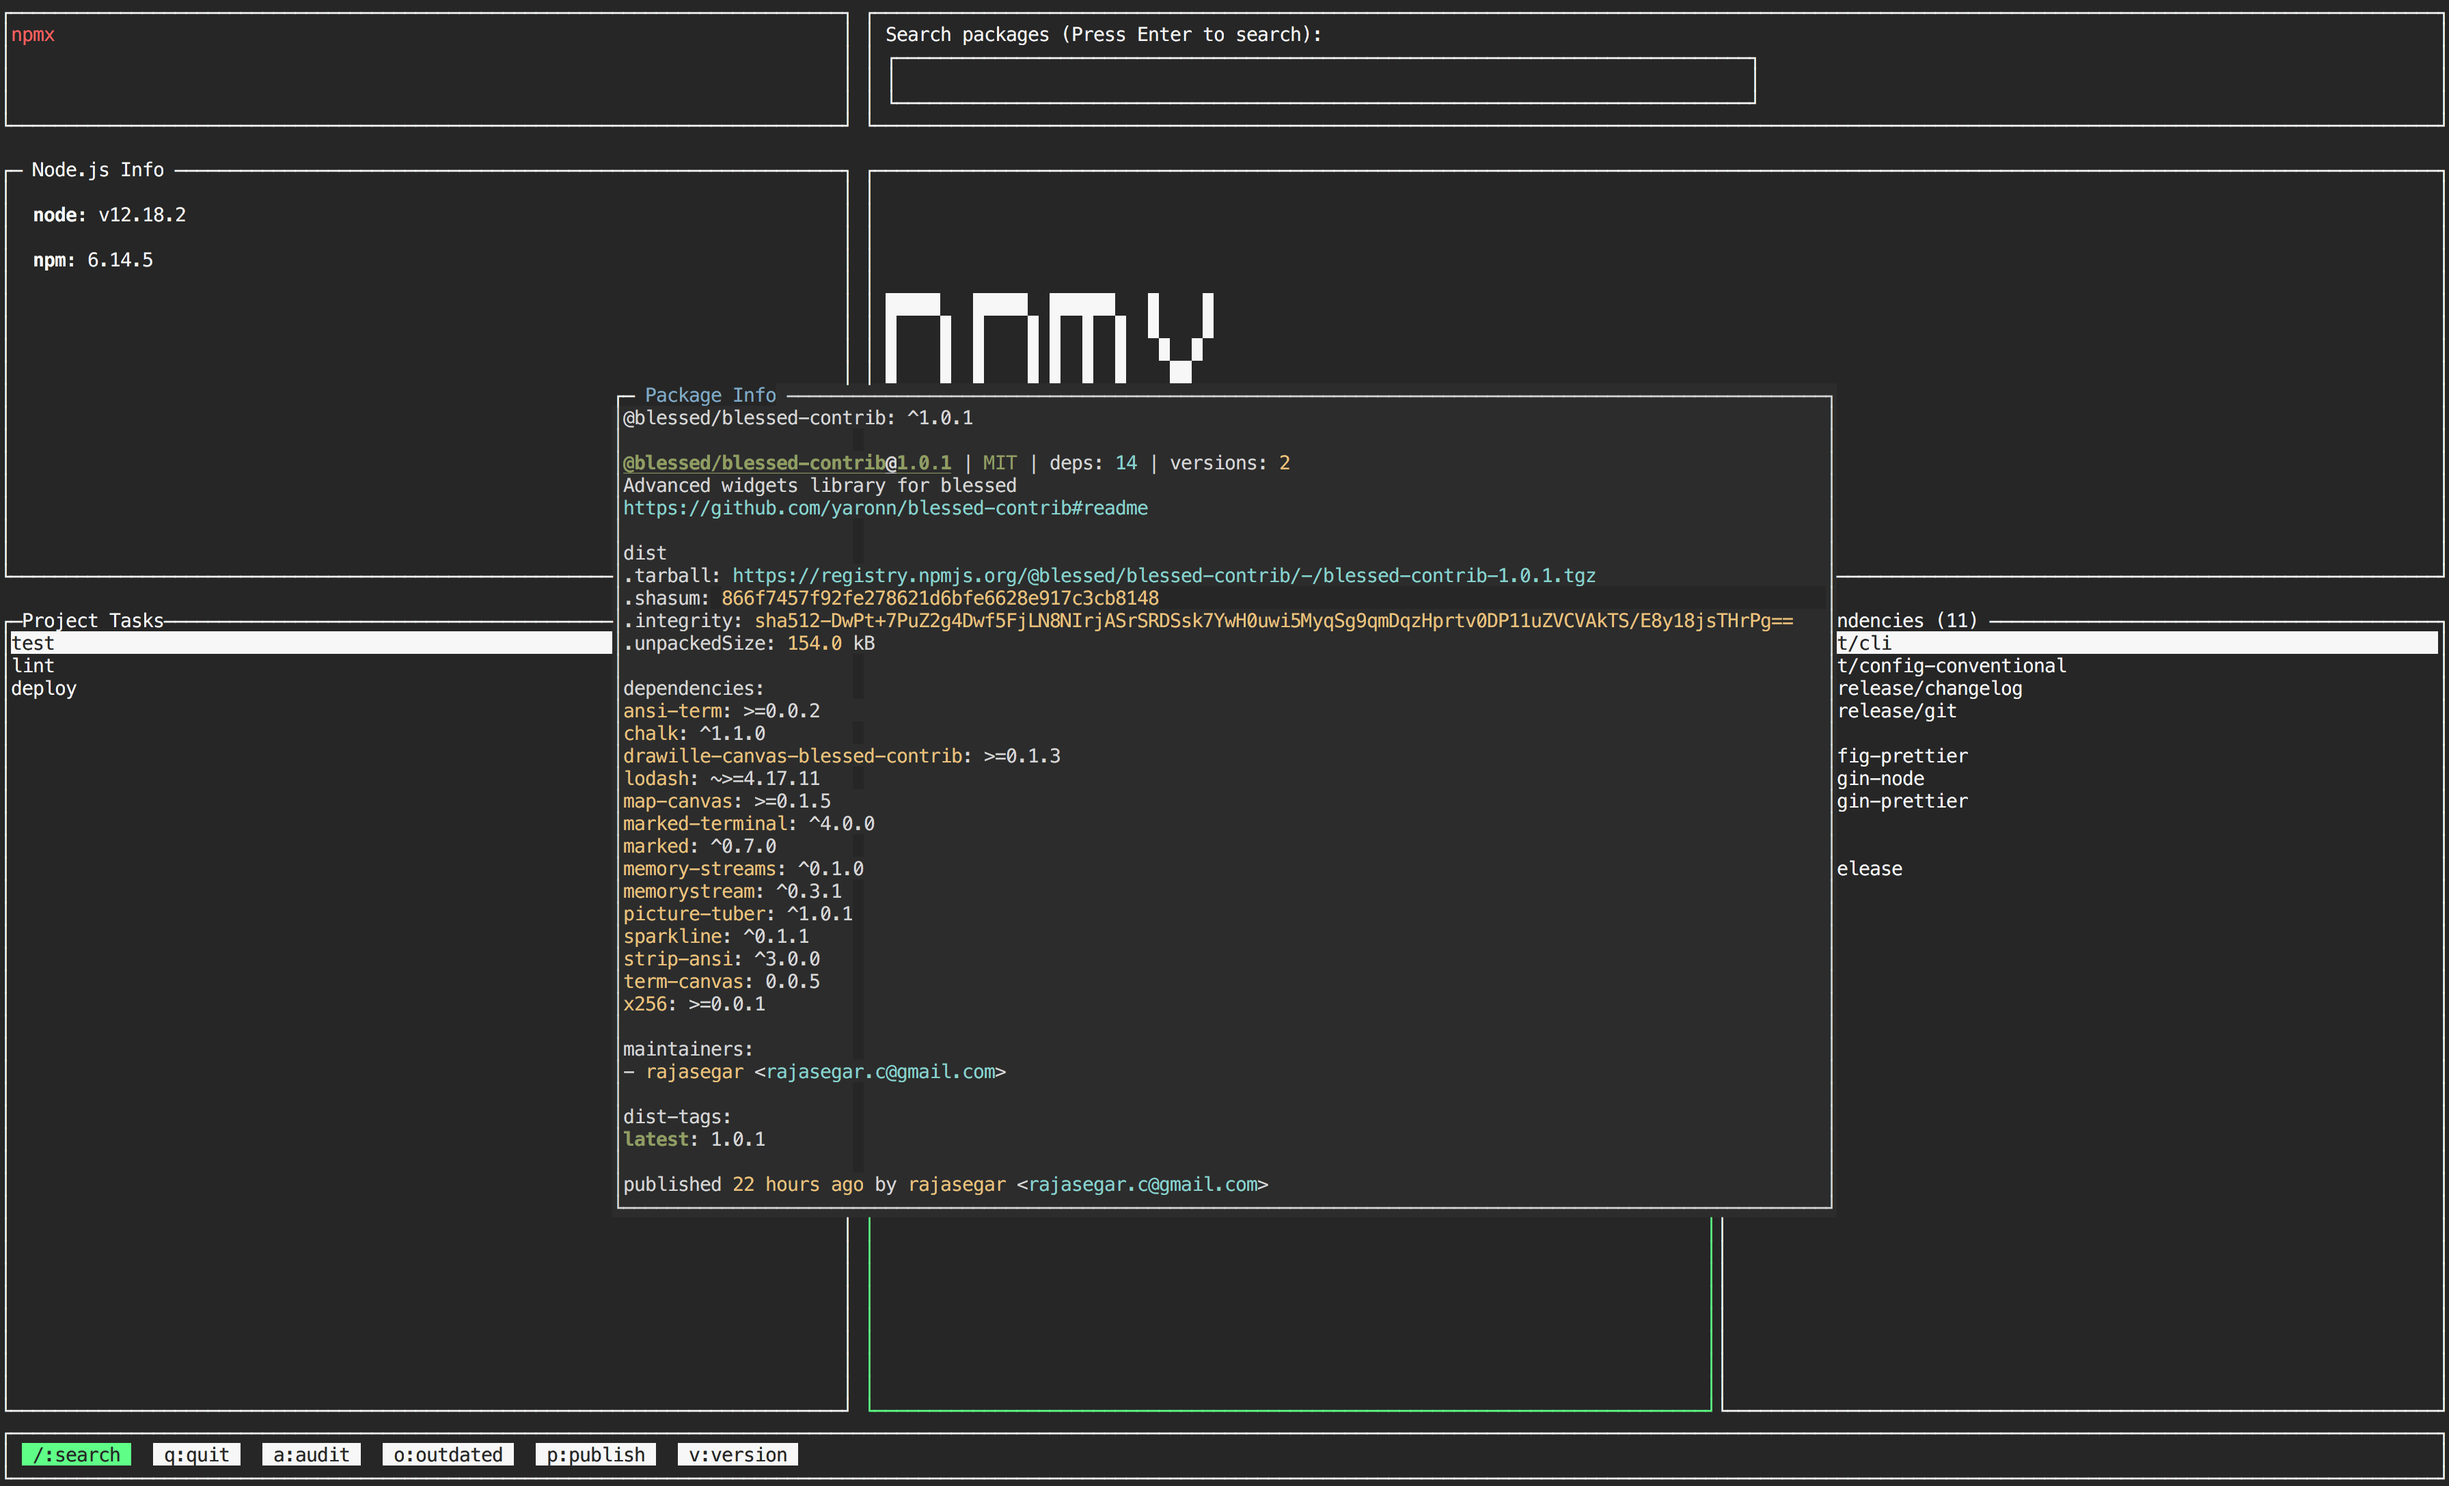
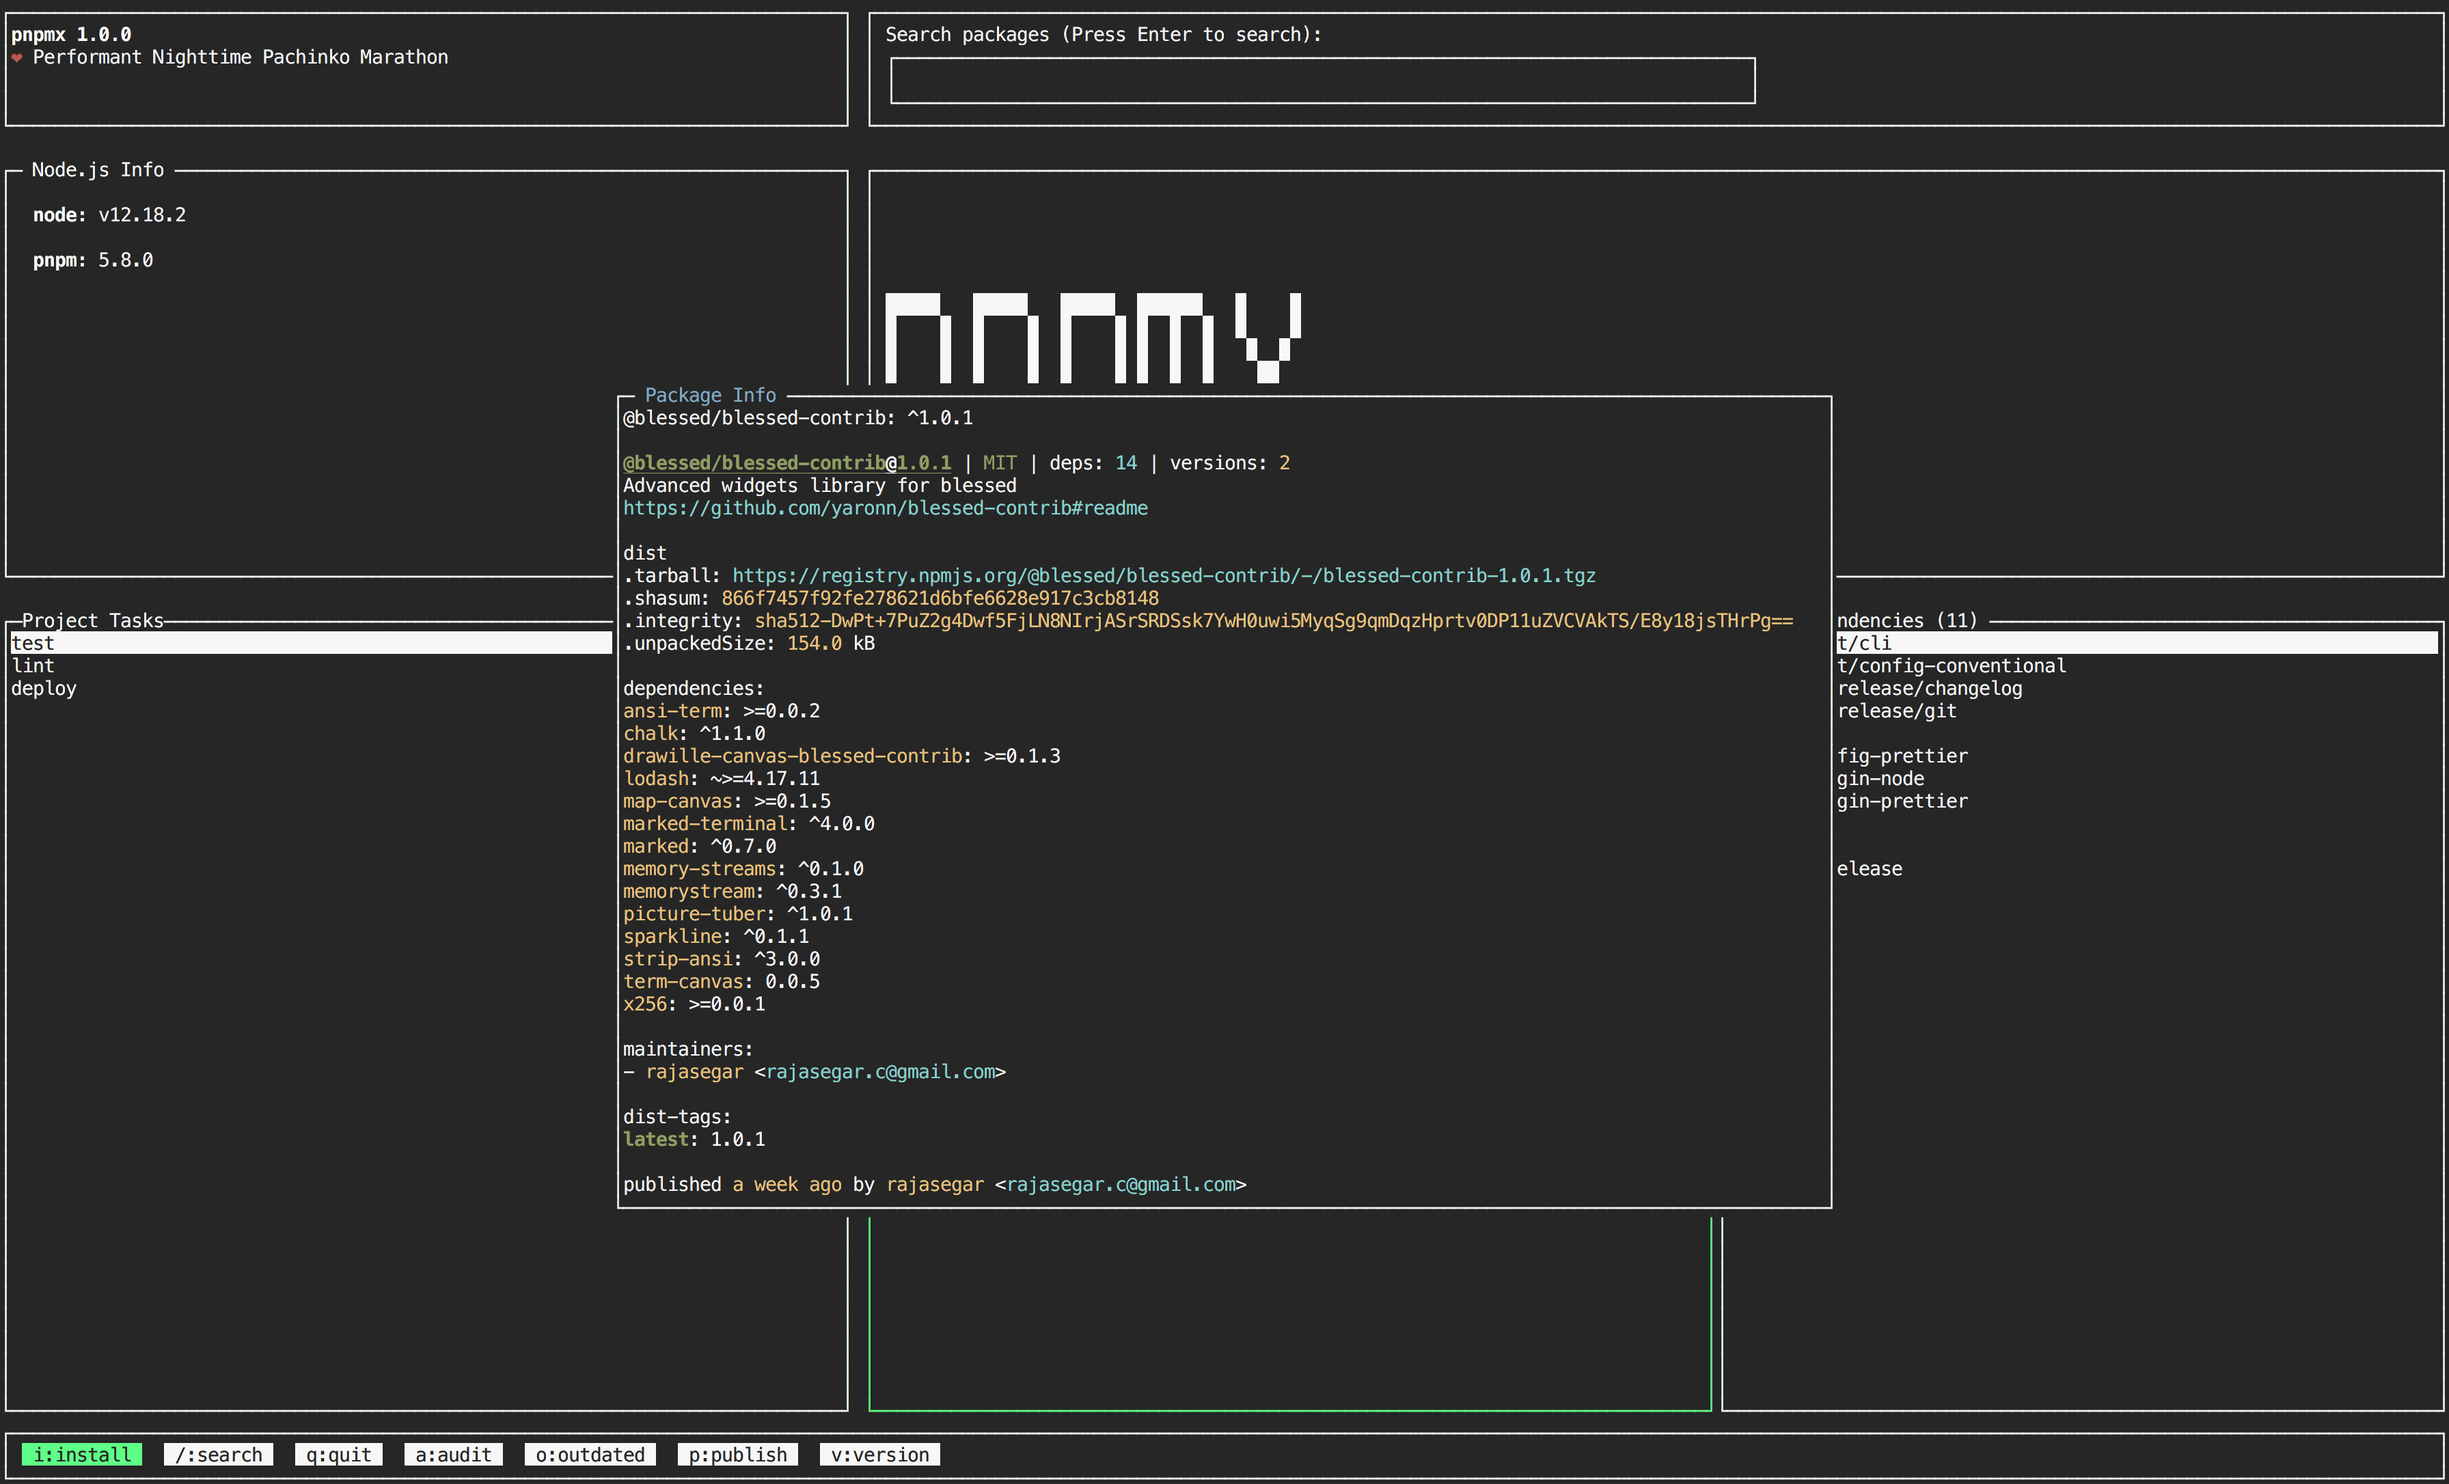
docs: update screenshots [skip ci]

diff --git a/README.md b/README.md
@@ -53,6 +53,8 @@ The Default theme used is `Dracula`. The config file will be automatically creat
 ### Package
 ![package page](screenshots/package.png)
 
+### Install Package
+![install package](screenshots/install.png)
 ## FAQS
 
 ### How do I quit this thing?
